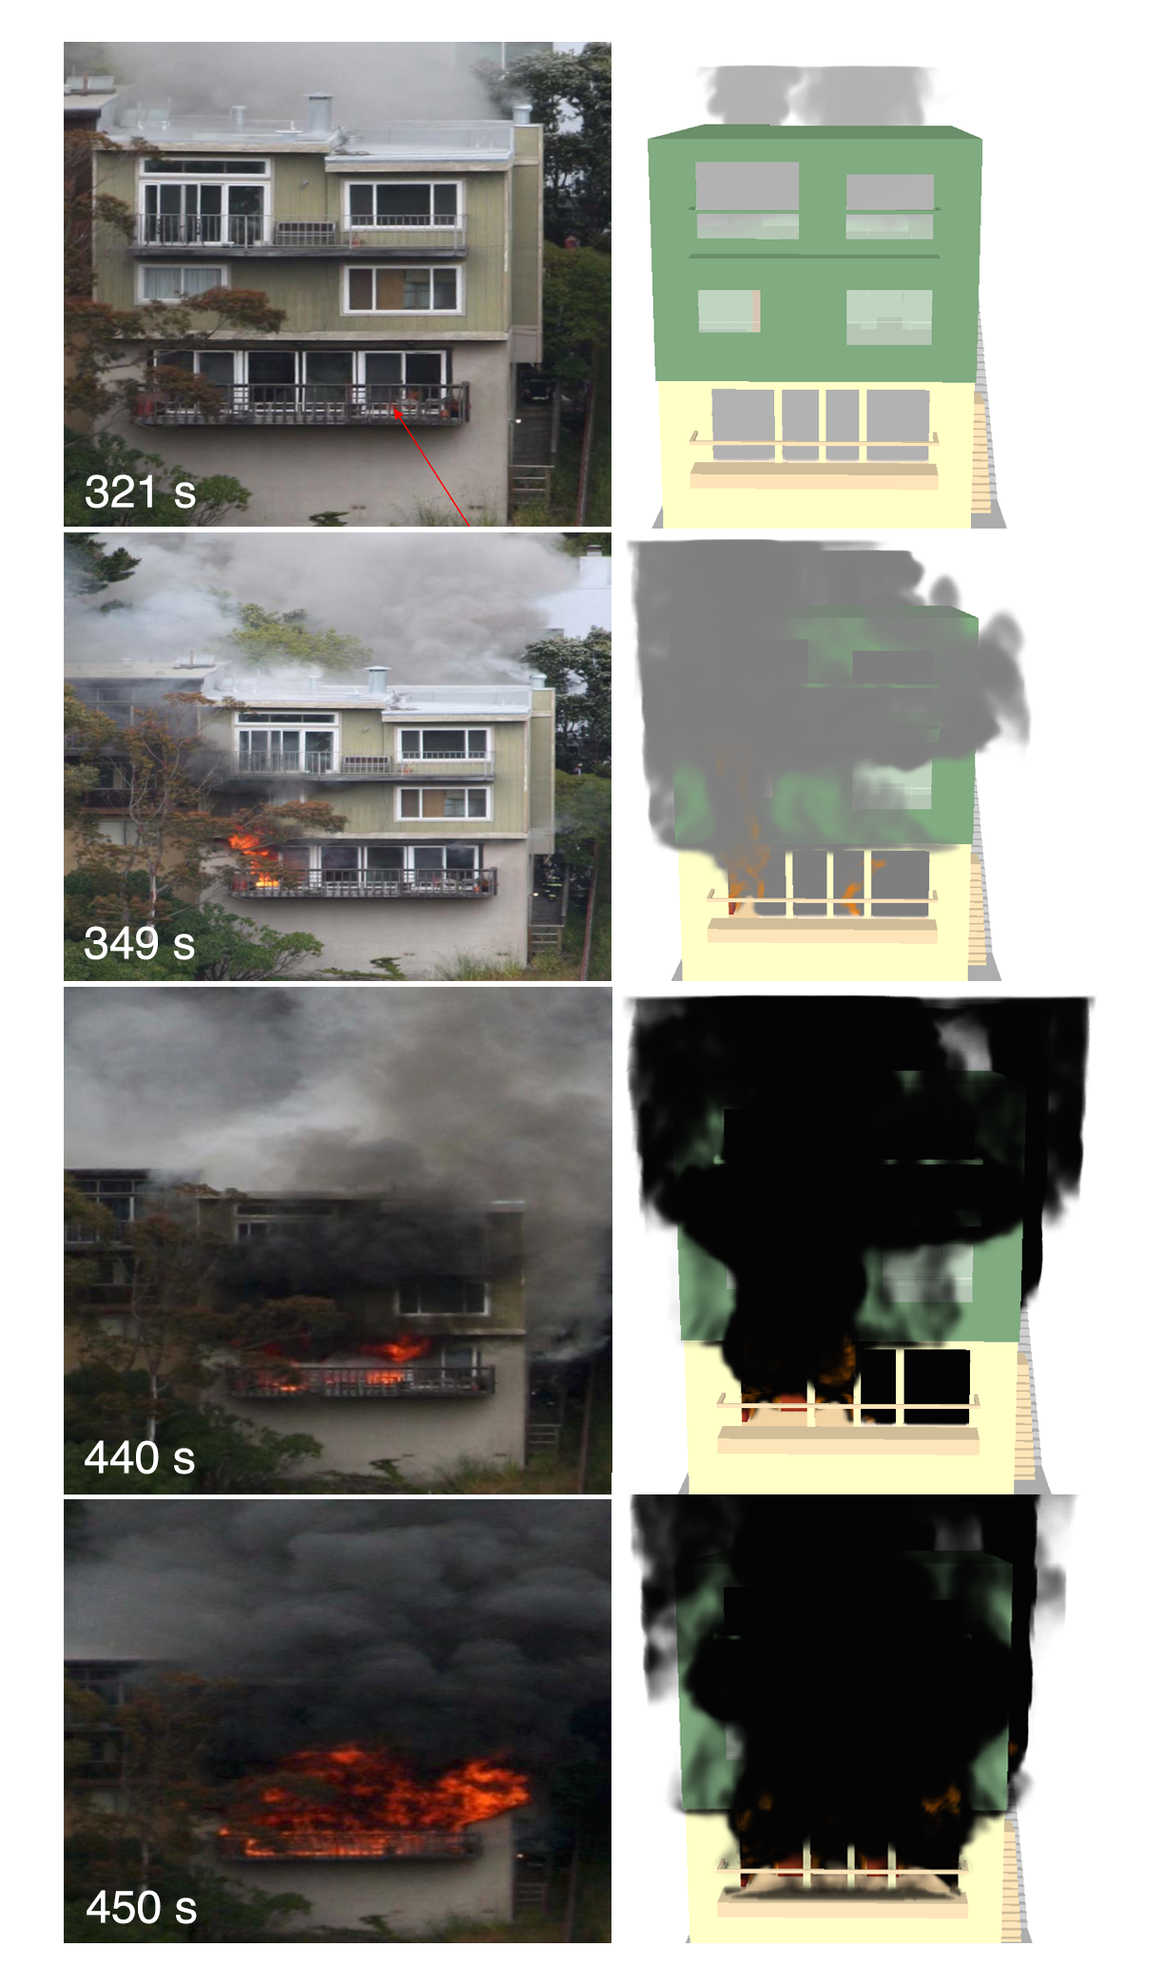
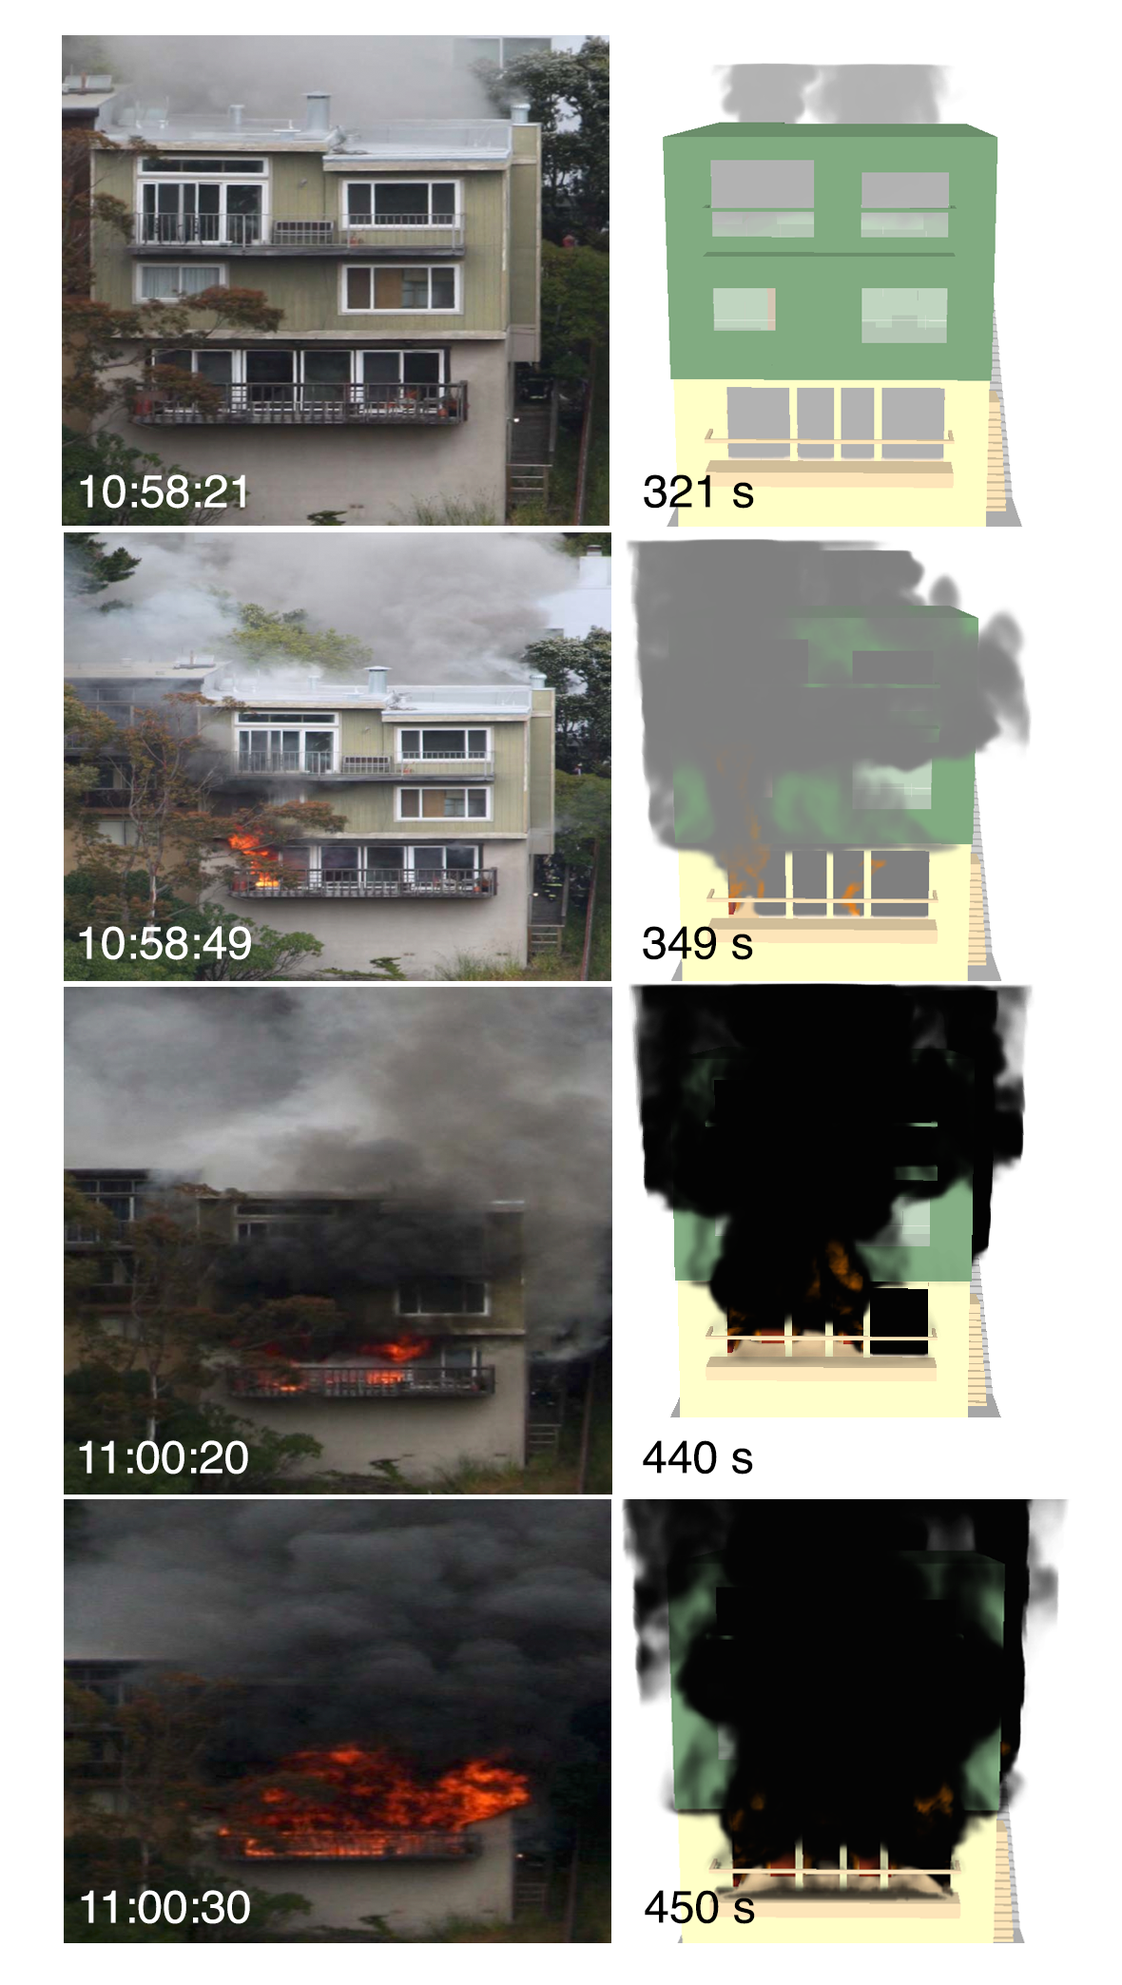
San Francisco: Edits to fire and HRR section

diff --git a/Studies/2011_San_Francisco/Report/San_Francisco_Fire.tex b/Studies/2011_San_Francisco/Report/San_Francisco_Fire.tex
@@ -337,7 +337,9 @@ The fire, which is described in Section~\ref{sec:fires}, originated in the finis
 \section{Fires}
 \label{sec:fires}
 
-To estimate the type of fuel, fire size, and structure ventilation, on-scene photographs and post-incident reports were used. Based on these sources of information, the FDS model includes three source fires: an initial couch fire in the basement, a secondary flashover fire that involved additional furniture items in the basement, and a third fire that occurred on the exterior basement balcony. The basement primarily contained upholstered polyurethane furniture fuel items, and the balcony was constructed of wood. The HRR of the initial couch fire is based on an experimentally measured HRR for a mattress fire~\cite{madrzykowski2009fire} to represent the fire growth rate of a similar household furniture item. The primary fuel packages were located in the basement as shown in Fig.~\ref{fig:fuel_placement}. In this figure, the numbered labels indicate the order in which the fuel items were burning: 1) the initial couch fire, 2) the secondary furniture fuel items, and 3) the balcony fire.
+To estimate the type of fuel, fire size, and structure ventilation, on-scene photographs and post-incident reports were used. Based on these sources of information, the FDS model includes three source fires: 1) an initial couch fire in the basement, 2) a flashover fire that involved additional furniture items in the basement, and 3) a fire that occurred on the exterior basement balcony. The basement primarily contained upholstered polyurethane furniture fuel items, and the balcony was constructed of wood. The HRR of the initial couch fire is based on an experimentally measured HRR for a mattress fire~\cite{madrzykowski2009fire} to represent the fire growth rate of a similar household furniture item.
+
+The primary fuel packages were located in the basement as shown in Fig.~\ref{fig:fuel_placement}. In this figure, the numbered labels indicate the order in which the fuel items were burning: 1) the initial couch fire, 2) the secondary furniture fuel items, and 3) the balcony fire.
 
 \begin{figure}[!ht]
 \includegraphics[width=6.5in]{../Figures/Plan_Basement_Fuels}
@@ -345,6 +347,69 @@ To estimate the type of fuel, fire size, and structure ventilation, on-scene pho
 {Location of fuel items in the basement. The numbered labels indicate the order in which the fuel items were burning.}
 \label{fig:fuel_placement}
 \end{figure}
+
+
+\clearpage
+
+
+Since the time at which the fire started is not known relative to the notification of a fire or how fast the fire spread, several simplifying assumptions were made. One assumption is that the initial couch fire in the basement was specified to start at the beginning of the simulation. The beginning of the simulation ($t=0$) was selected to correspond to an on-scene time of 10:53:00 (see Table~\ref{tab:incident_timeline}). The HRRs for the three primary source fires was prescribed in FDS as follows.
+
+\begin{enumerate}
+\item For the initial couch fire in the basement, the HRR from 0~s to 327~s followed the experimentally measured mattress HRR. At 300~s, the HRR was approximately 3~MW. From 327~s until 540~s (the end of the simulation), the HRR was a constant 5~MW.
+
+\item The secondary fuel packages in the basement were divided among four additional furniture items (two sofas, a lounge, and a chair). The two large sofas in the middle of the basement were specified with a peak HRR of 5~MW. The lounge and chair located at the perimeter of the basement were specified with a peak HRR of 2~MW. From 0~s to 300~s, these items were not burning. From 300~s to 342~s (the time at which the first basement window failed), the secondary fuel items were ignited, and the total HRR of the secondary fuel packages increased linearly from 0~MW to 14~MW. From 342~s to 540~s (the end of the simulation), the HRR was a constant 14~MW.
+
+\item The third exterior fuel item included the wood on the basement balcony and siding. From 0~s to 440~s, these items were not burning. From 440~s to 450~s, the exterior basement balcony was ignited, and the total HRR increased linearly from 0~MW to 1~MW. To estimate the heat release rate per unit area (HRRPUA) of wood, Babrauskas and Grayson~\cite{babrauskas1990} conducted experiments in a cone calorimeter\footnote{The cone calorimeter is an experimental apparatus used to gather data about ignition time, mass loss, combustion products, and heat release rate among other properties associated with burning small samples of materials~\cite{ASTM:E1355}.} to determine the 5-min average of the HRRPUA for several different types of wood over a range of radiant heat fluxes. The results of that study indicate that the HRRPUA for different types of wood is approximately 50~kW/m$^2$.
+\end{enumerate}
+
+Figure~\ref{fig:hrr} shows the prescribed design fire for this scenario, which is the sum of the HRRs of the three source fires. In this figure, the text labels indicate the three stages of the fire based on the contribution of the fuel packages. Therefore, the estimated maximum specified fire size for this structure was approximately 20~MW. Note that the prescribed HRR can be different than the simulated HRR calculated by FDS based on the amount of available fuel, oxygen, and ventilation. A comparison of the prescribed HRR and the simulated HRR is discussed in Section~\ref{sec:HRR}.
+
+\begin{figure}[!ht]
+\includegraphics[width=5.5in]{../Figures/Fire_HRR}
+\caption[Prescribed HRR vs. time.]
+{Prescribed HRR vs. time. The text labels indicate the three stages of the fire based on the contribution of the fuel packages.}
+\label{fig:hrr}
+\end{figure}
+
+
+\clearpage
+
+
+Another simplification of the model is that the sources of the gas phase polyurethane and wood fuel have constant areas at fixed locations (five furniture items in the basement interior for the polyurethane fuel, and the exterior basement balcony for the wood fuel). The following lines define the source fires in the FDS input file:
+
+\begin{lstlisting}
+&SURF ID='COUCH_RIGHT_INITIAL',
+    SPEC_ID='POLYURETHANE',
+    MASS_FLUX = 5.271815E-6,
+    RAMP_MF='COUCH_RIGHT_INITIAL_RAMP' /
+
+&SURF ID='COUCH_MIDDLE_FLASHOVER',
+    SPEC_ID='POLYURETHANE',
+    MASS_FLUX = 1.037172E-5,
+    RAMP_MF='COUCH_MIDDLE_FLASHOVER_RAMP' /
+
+&SURF ID='COUCH_LEFT_FLASHOVER',
+    SPEC_ID='POLYURETHANE',
+    MASS_FLUX = 5.271815E-6,
+    RAMP_MF='COUCH_LEFT_FLASHOVER_RAMP' /
+
+&SURF ID='LOUNGE_FLASHOVER',
+    SPEC_ID='POLYURETHANE',
+    MASS_FLUX = 7.853485E-6,
+    RAMP_MF='LOUNGE_FLASHOVER_RAMP' /
+
+&SURF ID='CHAIR_FLASHOVER',
+    SPEC_ID='POLYURETHANE',
+    MASS_FLUX = 7.918660E-6,
+    RAMP_MF='CHAIR_FLASHOVER_RAMP' /
+
+&SURF ID='WOOD_EXTERIOR',
+    SPEC_ID='WOOD',
+    MASS_FLUX = 0.003049,
+    RAMP_MF='WOOD_EXTERIOR_RAMP' /
+\end{lstlisting}
+
+Note that the mass flux values here are unique for each fuel item and are specific to the input files used for these simulations. The key point is that each fuel item was modeled as a 3D object with flat surfaces from which a specified amount of fuel flows, mixes with air, and burns.
 
 Polyurethane fuel was specified for the interior basement fuel items, which can be represented by the chemical formula, $\C\H_{1.8}\O_{0.30}\N_{0.05}$, with specified product yields of soot ($y_{\mathrm{s}}=0.131 \; \mathrm{kg}/\mathrm{kg}$) and carbon monoxide ($y_{\mathrm{CO}}=0.010 \; \mathrm{kg}/\mathrm{kg}$)~\cite{SFPE:Tewarson}. The product yields are expressed in terms of the amount soot or carbon monoxide emitted per unit mass of fuel consumed~(kg/kg) and can be found in the Society of Fire Protection Engineers (SFPE) Handbook~\cite{SFPE:Tewarson}. A balanced chemical reaction for polyurethane combustion can be written as:
 
@@ -405,64 +470,6 @@ The heat of combustion of polyurethane and wood were specified as 26,200~kJ/kg a
 \end{lstlisting}
 
 Note that using the input lines above will invoke the simple chemistry reaction mechanism in FDS in which fuel and air react to form only CO$_2$, CO, H$_2$O, soot, and N$_2$. If the inclusion of other combustion products is desired, then the user must explicitly define those species and the chemical reaction that produces them~\cite{FDS_Users_Guide}. Based on the above input lines, FDS uses the default, mixing-controlled fast chemistry combustion model. This mechanism states that the rate of fuel consumption is proportional to both the local limiting reactant concentration and the local rate of mixing and extinction is based on the critical flame temperature approach~\cite{FDS_Math_Guide}. While FDS provides users with the option to use a more complex finite-rate combustion mechanism, there is not sufficient evidence in this case to justify deviating from the default specifications.
-
-\noindent The HRR for the various fuel packages was prescribed in FDS as follows.
-
-\begin{enumerate}
-\item For the inital couch fire in the basement, the HRR from 0~s to 327~s followed the experimentally measured mattress HRR. At 300~s, the HRR was approximately 3~MW. From 327~s until 540~s (the end of the simulation), the HRR was a constant 5~MW.
-
-\item The secondary fuel packages in the basement were divided among four additional furniture items (two sofas, a lounge, and a chair). The two large sofas in the middle of the basement were specified with a peak HRR of 5~MW. The lounge and chair located at the perimeter of the basement were specified with a peak HRR of 2~MW. From 0~s to 300~s, these items were not burning. From 300~s to 342~s (the time at which the first basement window failed), the secondary fuel items were ignited, and the total HRR of the secondary fuel packages increased linearly from 0~MW to 14~MW. From 342~s to 540~s (the end of the simulation), the HRR was a constant 14~MW.
-
-\item The third exterior fuel item included the wood on the basement balcony and siding. From 0~s to 440~s, these items were not burning. From 440~s to 450~s, the exterior basement balcony was ignited, and the total HRR increased linearly from 0~MW to 1~MW. To estimate the heat release rate per unit area (HRRPUA) of wood, Babrauskas and Grayson~\cite{babrauskas1990} conducted experiments in a cone calorimeter\footnote{The cone calorimeter is an experimental apparatus used to gather data about ignition time, mass loss, combustion products, and heat release rate among other properties associated with burning small samples of materials~\cite{ASTM:E1355}.} to determine the 5-min average of the HRRPUA for several different types of wood over a range of radiant heat fluxes. The results of that study indicate that the HRRPUA for different types of wood is approximately 50~kW/m$^2$.
-\end{enumerate}
-
-Figure~\ref{fig:hrr} shows the prescribed design fire for this scenario, which is the sum of the HRRs of the three source fires. In this figure, the text labels indicate the three stages of the fire based on the contribution of the fuel packages. Therefore, the estimated maximum specified fire size for this structure was approximately 20~MW. Note that the prescribed HRR can be different than the simulated HRR calculated by FDS based on the amount of available fuel, oxygen, and ventilation. A comparison of the prescribed HRR and the simulated HRR is discussed in Section~\ref{sec:HRR}.
-
-\begin{figure}[!ht]
-\includegraphics[width=5.5in]{../Figures/Fire_HRR}
-\caption[Prescribed HRR vs. time.]
-{Prescribed HRR vs. time. The text labels indicate the three stages of the fire based on the contribution of the fuel packages.}
-\label{fig:hrr}
-\end{figure}
-
-
-\clearpage
-
-
-Since the time at which the fire started is not known relative to the notification of a fire or how fast the fire spread, several simplifying assumptions were made. The first assumption is that the initial couch fire in the basement was specified to start at the beginning of the simulation. The second assumption is that the sources of the gas phase polyurethane and wood fuel have constant areas at fixed locations (five furniture items in the basement interior for the polyurethane fuel, and the exterior basment balcony for the wood fuel). The following lines define the source fires in the FDS input file:
-
-\begin{lstlisting}
-&SURF ID='COUCH_RIGHT_INITIAL',
-    SPEC_ID='POLYURETHANE',
-    MASS_FLUX = 5.271815E-6,
-    RAMP_MF='COUCH_RIGHT_INITIAL_RAMP' /
-
-&SURF ID='COUCH_MIDDLE_FLASHOVER',
-    SPEC_ID='POLYURETHANE',
-    MASS_FLUX = 1.037172E-5,
-    RAMP_MF='COUCH_MIDDLE_FLASHOVER_RAMP' /
-
-&SURF ID='COUCH_LEFT_FLASHOVER',
-    SPEC_ID='POLYURETHANE',
-    MASS_FLUX = 5.271815E-6,
-    RAMP_MF='COUCH_LEFT_FLASHOVER_RAMP' /
-
-&SURF ID='LOUNGE_FLASHOVER',
-    SPEC_ID='POLYURETHANE',
-    MASS_FLUX = 7.853485E-6,
-    RAMP_MF='LOUNGE_FLASHOVER_RAMP' /
-
-&SURF ID='CHAIR_FLASHOVER',
-    SPEC_ID='POLYURETHANE',
-    MASS_FLUX = 7.918660E-6,
-    RAMP_MF='CHAIR_FLASHOVER_RAMP' /
-
-&SURF ID='WOOD_EXTERIOR',
-    SPEC_ID='WOOD',
-    MASS_FLUX = 0.003049,
-    RAMP_MF='WOOD_EXTERIOR_RAMP' /
-\end{lstlisting}
-Note that the mass flux values here are unique for each fuel item and are specific to the input files used for these simulations. The key point is that each fuel item was modeled as a 3D object with flat surfaces from which a specified amount of fuel flows, mixes with air, and burns.
 
 
 \clearpage
@@ -648,9 +655,9 @@ Incident Time  &  Simulation  &  Fire Behavior / Fireground Operation           
 \section{Heat Release Rate}
 \label{sec:HRR}
 
-In the FDS simulations, a prescribed HRR is specified, and FDS determines the amount of combustion that occurs throughout the simulation based on the amount of available fuel and oxygen at a given location. As a result, the actual HRR in FDS can be different than the prescribed HRR based on the ventilation conditions.
+In an FDS simulation, a prescribed HRR is specified, which results in a specified amount of fuel vapor (or pyrolyzate) being released from a fuel surface. FDS then determines the amount of combustion that occurs throughout the simulation based on the amount of available fuel and oxygen at a given location. As a result, the actual HRR in FDS can be different than the prescribed HRR based on the ventilation conditions.
 
-Figure~\ref{fig:hrr_w_fds} shows the HRR vs. time based on the fires that were described in Section~\ref{sec:fires}. The vertical dashed line represents the time at which the first basement window on the rear side of the structure failed (342~s). The maximum size of the fire used in this study was selected such that the conditions would become ventilation limited to minimize computational time while aligning with the timeline observations from the fire scenario. Note that the rear window failures were manually specified in accordance with the event timeline rather than failure temperature criteria.
+Figure~\ref{fig:hrr_w_fds} shows the HRR vs. time based on the fires that were described in Section~\ref{sec:fires}. The vertical dashed line represents the time at which the first basement window on the rear side of the structure failed (342~s). Additional windows on the rear side of the basement continued to fail within the next two minutes. The maximum size of the fire used in this study was selected such that the conditions would become ventilation limited to minimize computational time while aligning with observations from the actual fire scenario. Note that the rear window failures were manually specified in accordance with the event timeline rather than failure temperature criteria.
 
 \begin{figure}[!ht]
 \includegraphics[width=5.5in]{../Figures/Fire_HRR_w_FDS}
@@ -663,13 +670,15 @@ Figure~\ref{fig:hrr_w_fds} shows the HRR vs. time based on the fires that were d
 \clearpage
 
 
-In Fig.~\ref{fig:hrr_w_fds}, the solid line represents the HRR that was prescribed in the FDS simulation, and the dashed line represents the actual HRR that was predicted by FDS based on the ventilation conditions. From 0~s to 300~s, the predicted HRR is in agreement with the prescribed HRR because there is an adequate amount of oxygen for all of the fuel to combust. From 300~s to 342~s (the time at which the first basement window failed), the predicted HRR is lower than the prescribed HRR because the fire in the structure becomes ventilation limited. The maximum predicted HRR value is approximately 7~MW before the fire becomes ventilation limited and begins to decay. The HRR decreased to approximately 2~MW as the amount of oxygen inside the structure becomes limited. At this time, there is an insufficient amount of oxygen in the structure to burn all of the fuel; therefore, localized burning occurs near the ventilation openings where ambient air is available.
+In Fig.~\ref{fig:hrr_w_fds}, the solid line represents the HRR that was prescribed in the FDS simulation, and the dashed line represents the actual HRR that was predicted by FDS based on the ventilation conditions. From 0~s to 300~s, the predicted HRR was in agreement with the prescribed HRR because there was an adequate amount of oxygen for all of the fuel to combust. From 300~s to 342~s (the time at which the first basement window failed), the predicted HRR was lower than the prescribed HRR because the fire conditions in the structure became ventilation limited. The maximum predicted HRR was approximately 7~MW before the fire conditions became ventilation limited and started to decay. The HRR decreased to approximately 2~MW as the amount of oxygen inside the structure became limited. At this time, there was an insufficient amount of oxygen in the structure to burn all of the fuel; therefore, localized burning occured near the ventilation openings where ambient air was available.
 
-At a time of 342~s, the first window on the rear side of the structure fails, and additional windows fail within the next two minutes. As additional window failures occur (see Table~\ref{tab:ventilation_timeline}), the abrupt change in ventilation causes the HRR to increase to approximately 32~MW before it reaches a steady-state value of approximately 20~MW. The predicted HRR increases above the prescribed HRR value because the unburned fuel and smoke that accumulated in the structure during ventilation-limited conditions is now mixing with ambient air from the failed window openings and burning. Figure~\ref{fig:timeline_comparison} shows a time series comparison of on-scene photographs and Smokeview snapshots of flaming combustion that occurs through the failed windows on the rear side of the structure.
+At a time of 342~s, the first window on the rear side of the structure failed, and additional windows failed within the next two minutes. As additional window failures occurred (see Table~\ref{tab:ventilation_timeline}), the abrupt change in ventilation caused the HRR to increase to approximately 32~MW before it reached a steady-state value of approximately 20~MW. The predicted HRR increased above the prescribed HRR because the unburned fuel and smoke that accumulated in the structure during ventilation-limited conditions was mixing with ambient air from the failed window openings and burning.
+
+Figure~\ref{fig:timeline_comparison} shows a time series comparison of on-scene photographs and Smokeview snapshots of flaming combustion that occured through the failed windows on the rear side of the structure. In this figure, the first photograph is shown at a simulation time of 321~s (approximately 20~s before the first rear basement window failed), the second photograph is shown at a simulation time of 349~s (approximately 10~s after the first rear basement window failed), the third photograph is shown at a simulation time of 440~s (approximately when the third rear basement window failed), and the fourth photograph is shown at a simulation time of 450~s (approximately when all of the rear basement windows failed).
 
 \begin{figure}[!ht]
-\includegraphics[height=8.25in]{../Figures/Timeline_Comparison}
-\caption{Comparison of on-scene photographs and Smokeview snapshots of exterior combustion occurring on the rear side of the structure.}
+\includegraphics[height=8.0in]{../Figures/Timeline_Comparison}
+\caption{Comparison of on-scene photographs and Smokeview snapshots of exterior combustion occurring on the rear side of the structure. The on-scene time is indicated on the left photograph, and the corresponding simulation time is indicated on the right Smokeview snapshot. For more information on the fire incident and simulation timeline, refer to Table~\ref{tab:combined_timeline}.}
 \label{fig:timeline_comparison}
 \end{figure}
 
